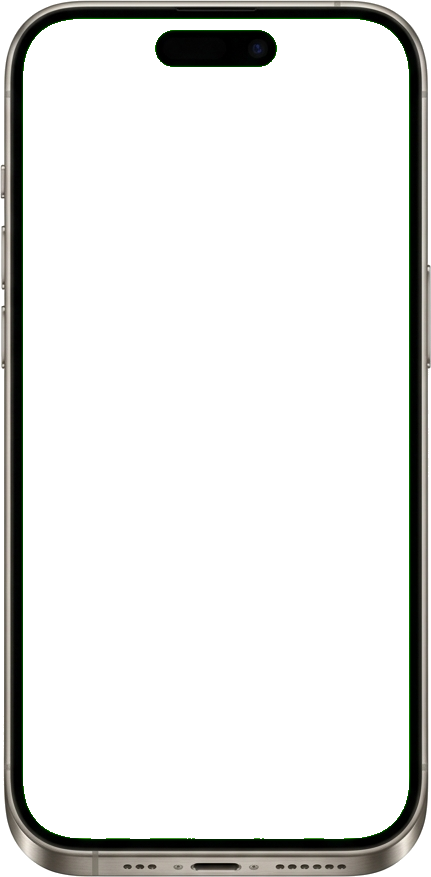
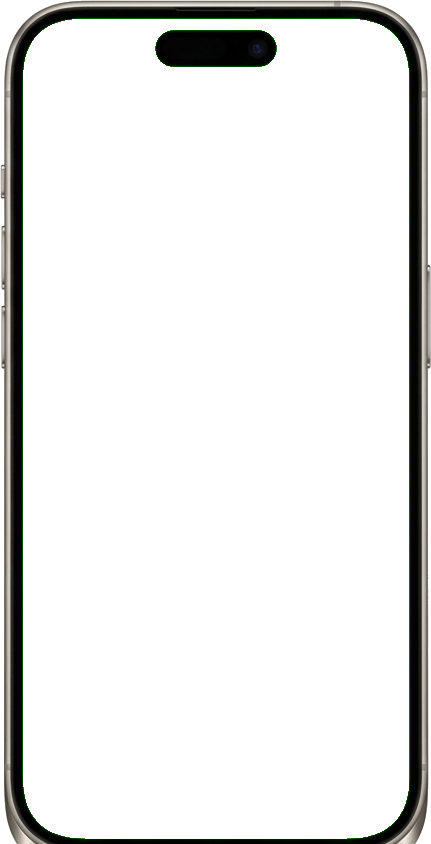
fix(mockup): crop iPhone bottom charging port and refine screen cutout positioning

diff --git a/src/components/MockupEditor/DeviceFrame.tsx b/src/components/MockupEditor/DeviceFrame.tsx
@@ -163,7 +163,7 @@ export const DeviceFrame: React.FC<DeviceFrameProps> = ({
     switch (deviceType) {
       case 'iphone16pro':
       case 'iphone15pro':
-        return { top: '2.2%', left: '3.2%', width: '93.6%', height: '95.6%', cornerRadius: 40 };
+        return { top: '2.5%', left: '3.6%', width: '92.8%', height: '95.0%', cornerRadius: 38 };
       case 'samsung-s25ultra':
       case 'samsung-s24':
         return { top: '1.6%', left: '2.4%', width: '95.2%', height: '96.8%', cornerRadius: 12 };
@@ -173,7 +173,7 @@ export const DeviceFrame: React.FC<DeviceFrameProps> = ({
       case 'ipadpro':
         return { top: '3.2%', left: '4.0%', width: '91.8%', height: '93.6%', cornerRadius: 20 };
       default:
-        return { top: '2.2%', left: '3.2%', width: '93.6%', height: '95.6%', cornerRadius: 40 };
+        return { top: '2.5%', left: '3.6%', width: '92.8%', height: '95.0%', cornerRadius: 38 };
     }
   };
 
